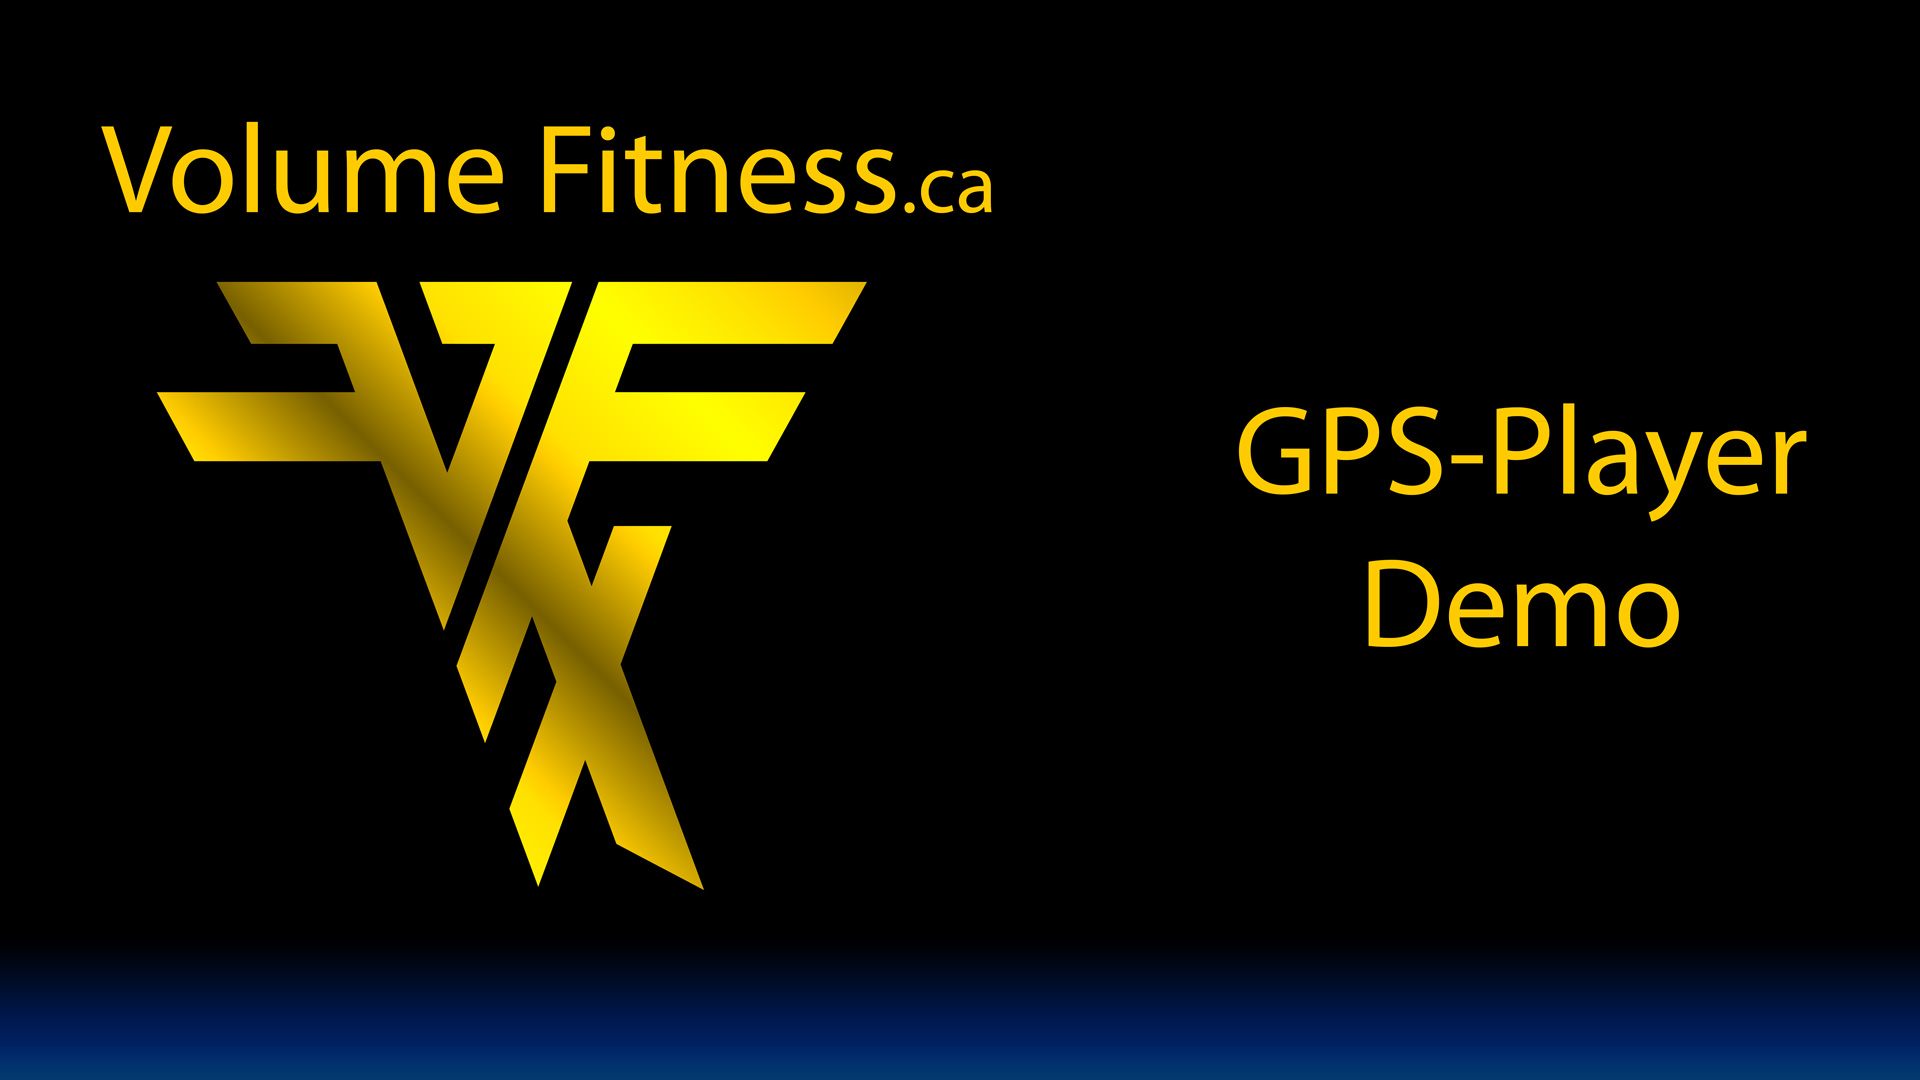
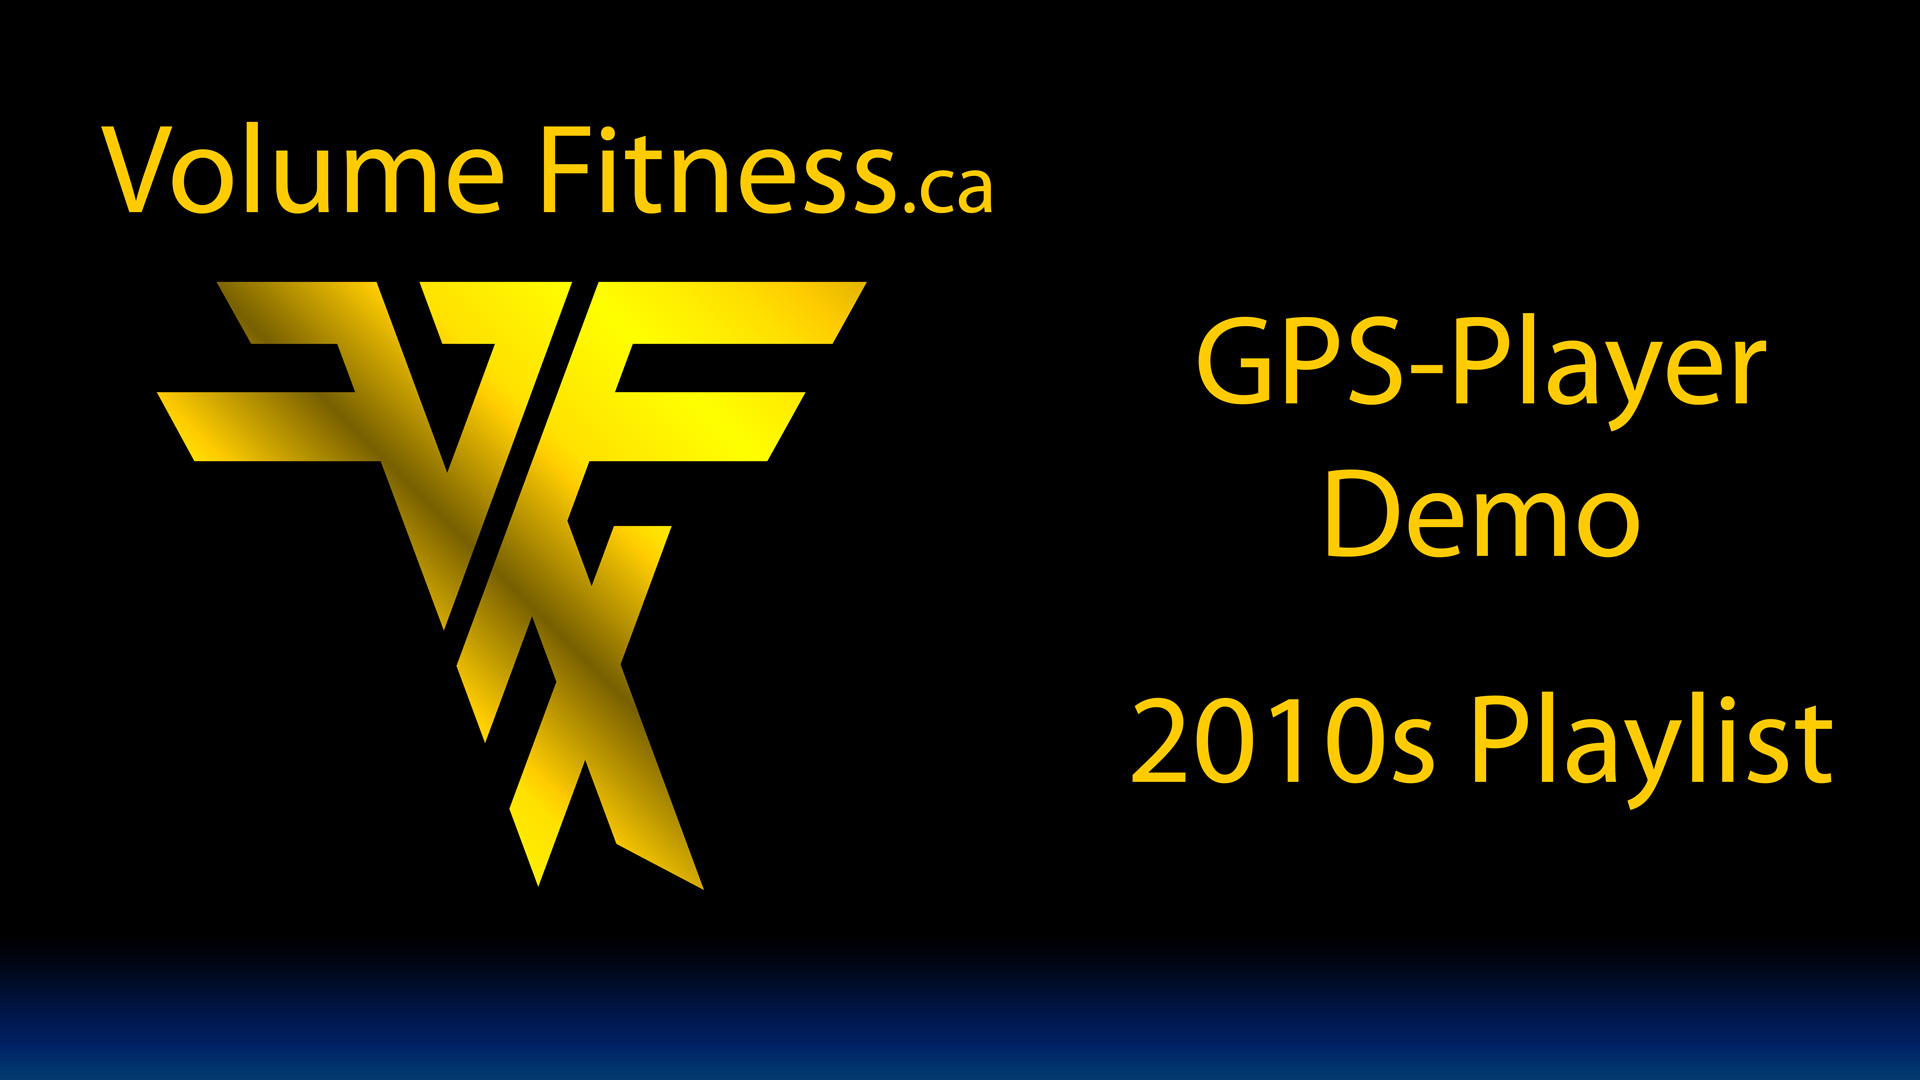
Add files via upload

Changed region(s): [[0.625, 0.275, 0.9375, 0.6111], [0.5938, 0.6417, 0.9688, 0.7639]]

diff --git a/demo_vid_gps_player_1990playlist.html b/demo_vid_gps_player_1990playlist.html
@@ -1,0 +1,87 @@
+<!DOCTYPE html>
+<html lang="en">
+<head>
+<meta charset="UTF-8">
+<meta name="viewport" content="width=device-width, initial-scale=1">
+<title>Smart Fullscreen Dropbox Video</title>
+<style>
+  body {
+    background-color: #111;
+    color: #fff;
+    font-family: system-ui, sans-serif;
+    display: flex;
+    justify-content: center;
+    align-items: center;
+    flex-direction: column;
+    min-height: 100vh;
+    margin: 0;
+  }
+
+  .video-wrapper {
+    position: relative;
+    width: 100%;
+    max-width: 960px;
+    margin: 1rem;
+  }
+
+  .video-wrapper video {
+    width: 100%;
+    height: auto;
+    border-radius: 12px;
+    box-shadow: 0 4px 12px rgba(0,0,0,0.4);
+    display: block;
+  }
+</style>
+</head>
+
+<body>
+  <div class="video-wrapper">
+    <video id="myVideo" 
+           controls 
+           playsinline 
+           preload="metadata"
+           poster="bitmaps/vfx_video_thumbnail_gps_90.jpg">
+      <source src="https://dl.dropboxusercontent.com/scl/fi/szxdcq87my5y2sj3pg5sh/VFX_presentation_90s_5mb.mp4?rlkey=upff1ynqwhdc82heh3ger9jiw&st=wu1ecia7" type="video/mp4">
+      Your browser does not support the video tag.
+    </video>
+  </div>
+
+  <script>
+    const video = document.getElementById('myVideo');
+    const isMobile = /iPhone|iPad|Android/i.test(navigator.userAgent);
+
+    // Desktop browsers: auto fullscreen on play
+    if (!isMobile) {
+      video.addEventListener('play', () => {
+        if (!document.fullscreenElement) {
+          if (video.requestFullscreen) {
+            video.requestFullscreen();
+          } else if (video.webkitRequestFullscreen) {
+            video.webkitRequestFullscreen();
+          } else if (video.msRequestFullscreen) {
+            video.msRequestFullscreen();
+          }
+        }
+      });
+
+      // Exit fullscreen when video ends
+      video.addEventListener('ended', () => {
+        if (document.fullscreenElement) {
+          if (document.exitFullscreen) {
+            document.exitFullscreen();
+          } else if (document.webkitExitFullscreen) {
+            document.webkitExitFullscreen();
+          } else if (document.msExitFullscreen) {
+            document.msExitFullscreen();
+          }
+        }
+      });
+    }
+
+    // Mobile browsers: rely on native fullscreen (no script fullscreen)
+    // Optional tweak: auto play inline once user presses play (browser handles fullscreen)
+  </script>
+</body>
+</html>
+
+
